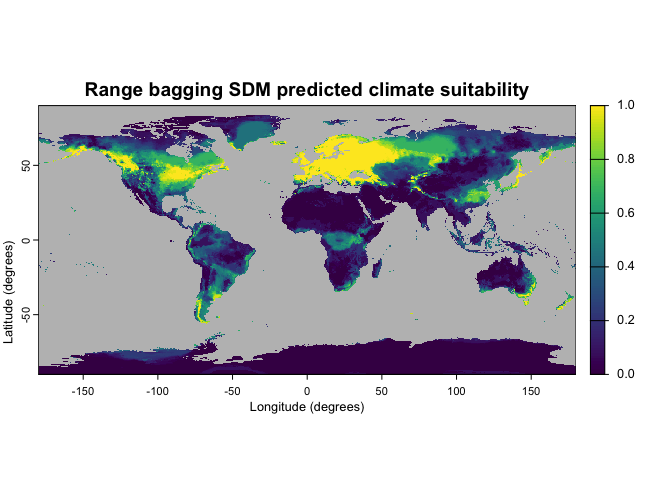
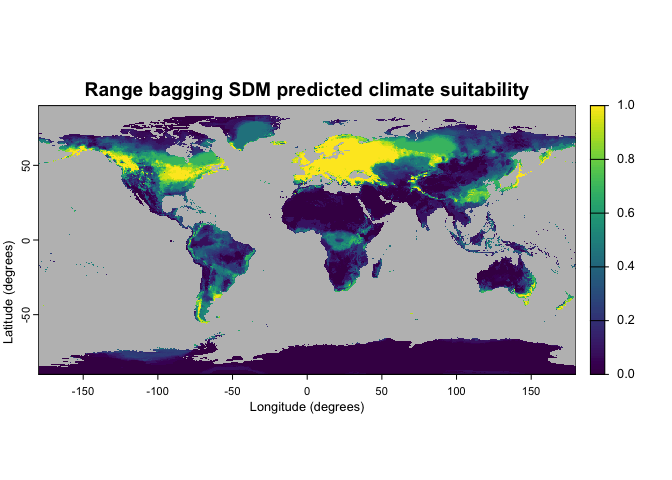
Expanded README with example (2)

diff --git a/README.md b/README.md
@@ -6,7 +6,7 @@
 <!-- badges: start -->
 
 [![Last
-commit](https://img.shields.io/github/last-commit/GlobalEcologyLab/poems.svg)](https://github.com/cebra-analytics/bssdm/commits/main)
+commit](https://img.shields.io/github/last-commit/cebra-analytics/bssdm.svg)](https://github.com/cebra-analytics/bssdm/commits/main)
 <!-- badges: end -->
 
 The *bssdm* package provides Species Distribution Modelling (SDM)
@@ -15,8 +15,8 @@ distribution environmental suitability for exotic pests, diseases, and
 other biosecurity threats, utilising spatial species occurrence records
 and their corresponding environmental variables. The two methods are:
 
-1.  Range bagging (Drake, 2015).
-2.  Climatch (ABARES, 2020).
+1.  *Range bagging* (Drake, 2015)
+2.  *Climatch* (ABARES, 2020)
 
 ## Installation
 
@@ -72,7 +72,7 @@ climate_rast
 
 The SDM requires species occurrence records to be specified in a table
 with latitude and longitude coordinates using the WGS84 coordinate
-reference system. Here we will use global Hawkweed (*Hieracium
+reference system (CRS). Here we will use global Hawkweed (*Hieracium
 pilosella*) occurrences downloaded from Global Biodiversity Information
 Facility (GBIF, 2026).
 
@@ -106,11 +106,11 @@ terra::plot(terra::vect(occurrences_cleaned, crs = "EPSG:4326"),
 
 To run a SDM we first build a model, then use it to predict the
 suitability for the area of interest using climate data with matching
-variables. Although this climate data may differ in its extent,
-coordinate reference system (CRS), resolution, or time frame (e.g. past
-or future climate), here we reuse the climate data used to build the
-model. We will build models and predict suitability for both our *Range
-bagging* and *Climatch* SDM methods.
+variables. Although this climate data may differ in its extent, CRS,
+resolution, or time frame (e.g. past or future climate), here we reuse
+the climate data used to build the model. We will build models and
+predict suitability for both our *Range bagging* and *Climatch* SDM
+methods.
 
 ``` r
 # Run Range bagging SDM